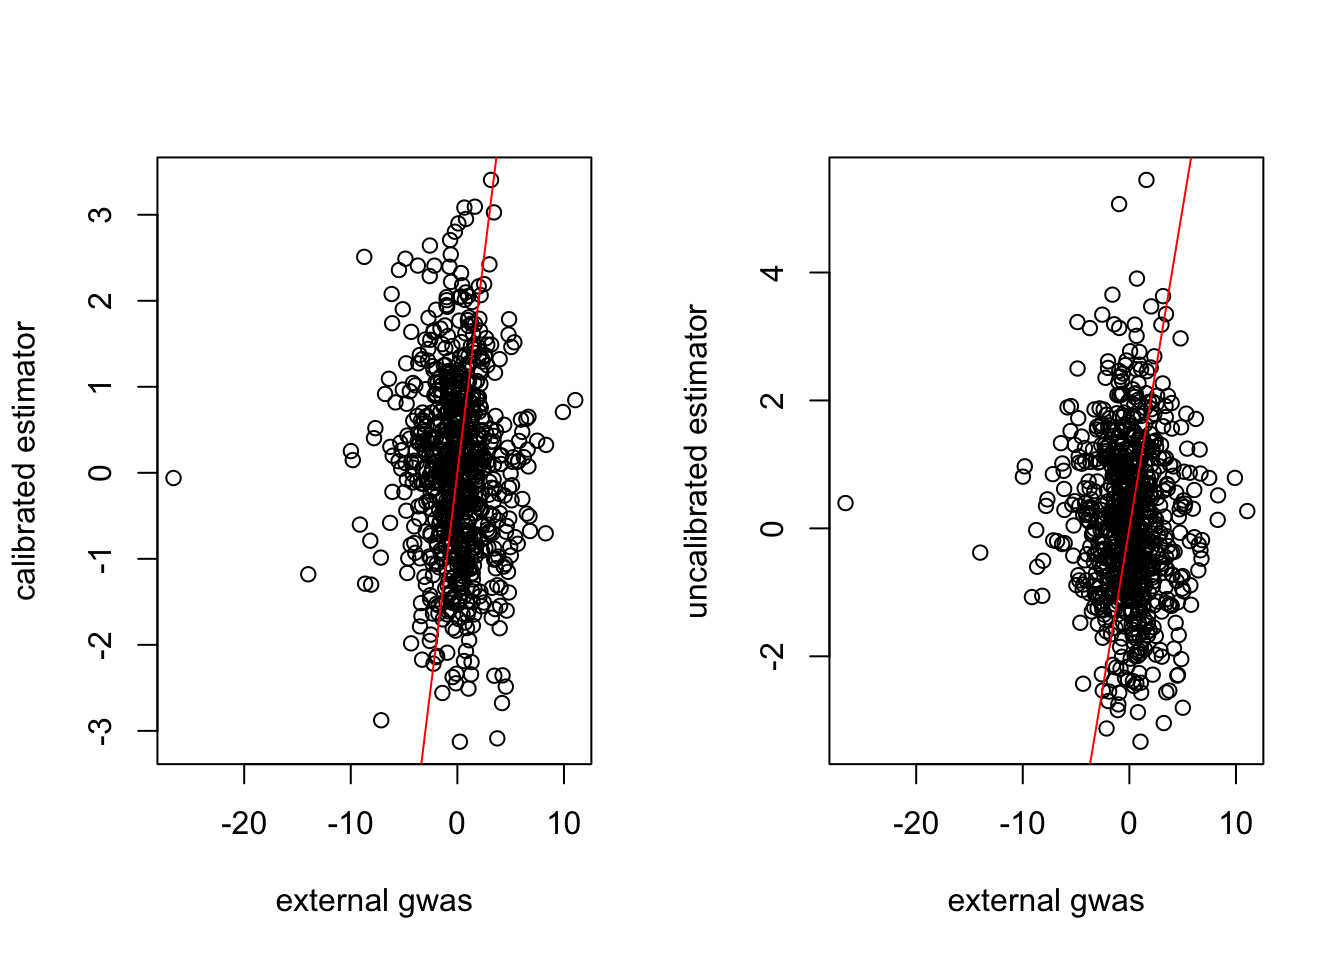
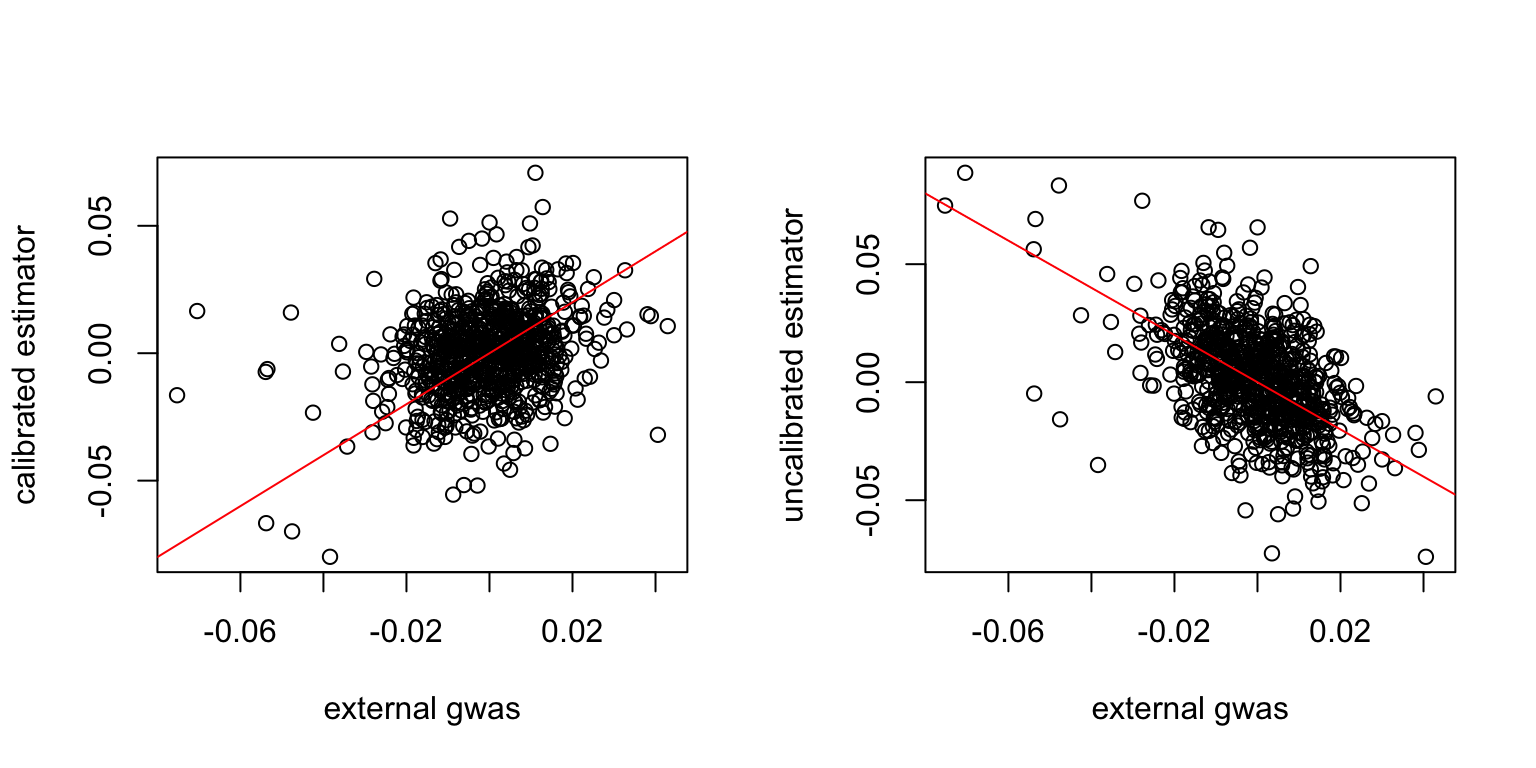
Build site.

diff --git a/docs/ukb_trait_calibration.html b/docs/ukb_trait_calibration.html
@@ -475,16 +475,16 @@ This reproducible <a href="http://rmarkdown.rstudio.com">R Markdown</a> analysis
 <div class="panel panel-default">
 <div class="panel-heading">
 <p class="panel-title">
-<a data-toggle="collapse" data-parent="#workflowr-checks" href="#strongRepositoryversionstrongahrefhttpsgithubcomyunqiyang0215simulationcalibratedmrtreea435a22b6d7da3b3b8bcaa146761af53e4e9d98ftargetblanka435a22a"> <span class="glyphicon glyphicon-ok text-success" aria-hidden="true"></span> <strong>Repository version:</strong> <a href="https://github.com/yunqiyang0215/simulation-calibrated-mr/tree/a435a22b6d7da3b3b8bcaa146761af53e4e9d98f" target="_blank">a435a22</a> </a>
+<a data-toggle="collapse" data-parent="#workflowr-checks" href="#strongRepositoryversionstrongahrefhttpsgithubcomyunqiyang0215simulationcalibratedmrtree2922fec9d5f2d7f1f2fc8186e04e18db68171cd0targetblank2922feca"> <span class="glyphicon glyphicon-ok text-success" aria-hidden="true"></span> <strong>Repository version:</strong> <a href="https://github.com/yunqiyang0215/simulation-calibrated-mr/tree/2922fec9d5f2d7f1f2fc8186e04e18db68171cd0" target="_blank">2922fec</a> </a>
 </p>
 </div>
[2 lines of base64/hex data omitted]
 <div class="panel-body">
 <p>
 Great! You are using Git for version control. Tracking code development and connecting the code version to the results is critical for reproducibility.
 </p>
 <p>
-The results in this page were generated with repository version <a href="https://github.com/yunqiyang0215/simulation-calibrated-mr/tree/a435a22b6d7da3b3b8bcaa146761af53e4e9d98f" target="_blank">a435a22</a>. See the <em>Past versions</em> tab to see a history of the changes made to the R Markdown and HTML files.
+The results in this page were generated with repository version <a href="https://github.com/yunqiyang0215/simulation-calibrated-mr/tree/2922fec9d5f2d7f1f2fc8186e04e18db68171cd0" target="_blank">2922fec</a>. See the <em>Past versions</em> tab to see a history of the changes made to the R Markdown and HTML files.
 </p>
 <p>
 Note that you need to be careful to ensure that all relevant files for the analysis have been committed to Git prior to generating the results (you can use <code>wflow_publish</code> or <code>wflow_git_commit</code>). workflowr only checks the R Markdown file, but you know if there are other scripts or data files that it depends on. Below is the status of the Git repository when the results were generated:
@@ -537,6 +537,40 @@ Message
 </tr>
 </thead>
 <tbody>
+<tr>
+<td>
+Rmd
+</td>
+<td>
+<a href="https://github.com/yunqiyang0215/simulation-calibrated-mr/blob/2922fec9d5f2d7f1f2fc8186e04e18db68171cd0/analysis/ukb_trait_calibration.Rmd" target="_blank">2922fec</a>
+</td>
+<td>
+yunqiyang0215
+</td>
+<td>
+2024-05-08
+</td>
+<td>
+wflow_publish("analysis/ukb_trait_calibration.Rmd")
+</td>
+</tr>
+<tr>
+<td>
+html
+</td>
+<td>
+<a href="https://rawcdn.githack.com/yunqiyang0215/simulation-calibrated-mr/896d41a23954c59a93184be152333c9de35660be/docs/ukb_trait_calibration.html" target="_blank">896d41a</a>
+</td>
+<td>
+yunqiyang0215
+</td>
+<td>
+2024-05-08
+</td>
+<td>
+Build site.
+</td>
+</tr>
 <tr>
 <td>
 Rmd
@@ -631,62 +665,33 @@ wflow_publish("analysis/ukb_trait_calibration.Rmd")
 </div>
 <div id="bmi" class="section level3">
 <h3>1. BMI</h3>
-<pre class="r"><code>sumstat = readRDS(&quot;/Users/nicholeyang/Downloads/calibrated_estimator/real-data-analysis/calibration_bmi.rds&quot;)
+<pre class="r"><code>sumstat = readRDS(&quot;/Users/nicholeyang/Downloads/calibrated_estimator/real-data-analysis/sib_result/sib_calibration_bmi.rds&quot;)
 ext = read.csv(&quot;/Users/nicholeyang/Downloads/calibrated_estimator/real-data-analysis/combined_bmi.linear&quot;, sep = &quot;\t&quot;)</code></pre>
-<pre class="r"><code>ext2 = ext[1:784, ]</code></pre>
+<pre class="r"><code>sumstat = data.frame(sumstat)
+sumstat$ID = rownames(sumstat)
+dat = merge(sumstat, ext, by.x = &quot;ID&quot;, by.y = &quot;ID&quot;, all = FALSE)</code></pre>
+<pre class="r"><code>head(dat)</code></pre>
+<pre><code>          ID          cali     cali.var          raw      raw.var X.CHROM
+1 rs10004698  0.0002856091 0.0001751302 -0.003960951 0.0002060997       4
+2 rs10009336  0.0081149064 0.0002789649 -0.015738750 0.0003286186       4
+3  rs1000940 -0.0121745655 0.0001718697  0.012413332 0.0002038394      17
+4  rs1003081 -0.0025580026 0.0001438800  0.015351719 0.0001695287      11
+5 rs10036136 -0.0051647561 0.0001511676 -0.006109080 0.0001816326       5
+6 rs10050688  0.0142942677 0.0001638802  0.009708311 0.0001941920       5
+        POS REF ALT A1 TEST OBS_CT        BETA         SE    T_STAT           P
+1 188961336   A   G  G  ADD 257429  0.00197690 0.00302184  0.654206 5.12980e-01
+2  44480783   T   C  C  ADD 257429  0.01168170 0.00377308  3.096060 1.96131e-03
+3   5283252   G   A  A  ADD 257429 -0.01851870 0.00302595 -6.119940 9.37432e-10
+4 118913993   T   C  C  ADD 257429 -0.01212200 0.00279283 -4.340420 1.42268e-05
+5  32869686   A   G  G  ADD 257429 -0.00457835 0.00282191 -1.622430 1.04712e-01
+6 116657963   A   G  G  ADD 257429  0.00613477 0.00297863  2.059590 3.94385e-02</code></pre>
 <pre class="r"><code># check estimate scale
-par(mfrow = c(1,3))
-plot(ext2$BETA[1:784], sumstat[, &quot;cali&quot;], xlab = &quot;external gwas&quot;, ylab = &quot;calibrated estimator&quot;)
-abline(a = 0, b = 1, col = &quot;red&quot;)
-plot(ext2$BETA[1:784], sumstat[, &quot;raw&quot;], xlab = &quot;external gwas&quot;, ylab = &quot;uncalibrated estimator&quot;)
-abline(a = 0, b = 1, col = &quot;red&quot;)
-plot(sumstat[, &quot;cali&quot;], sumstat[, &quot;raw&quot;], xlab = &quot;calibrated estimator&quot;, ylab = &quot;uncalibrated estimator&quot;)
-abline(a = 0, b = 1, col = &quot;red&quot;)</code></pre>
-<p><img src="figure/ukb_trait_calibration.Rmd/unnamed-chunk-3-1.png" width="768" style="display: block; margin: auto;" /></p>
-<p>
-<button type="button" class="btn btn-default btn-xs btn-workflowr btn-workflowr-fig" data-toggle="collapse" data-target="#fig-unnamed-chunk-3-1">
-Past versions of unnamed-chunk-3-1.png
-</button>
-</p>
-<div id="fig-unnamed-chunk-3-1" class="collapse">
-<div class="table-responsive">
-<table class="table table-condensed table-hover">
-<thead>
-<tr>
-<th>
-Version
-</th>
-<th>
-Author
-</th>
-<th>
-Date
-</th>
-</tr>
-</thead>
-<tbody>
-<tr>
-<td>
-<a href="https://github.com/yunqiyang0215/simulation-calibrated-mr/blob/5c909f4dccfdf9f985368d833aefdd077ed9d1a6/docs/figure/ukb_trait_calibration.Rmd/unnamed-chunk-3-1.png" target="_blank">5c909f4</a>
-</td>
-<td>
-yunqiyang0215
-</td>
-<td>
-2024-05-08
-</td>
-</tr>
-</tbody>
-</table>
-</div>
-</div>
-<pre class="r"><code># check Zscore
 par(mfrow = c(1,2))
-plot(ext2$BETA[1:784]/ext2$SE, sumstat[, &quot;cali&quot;]/sqrt(sumstat[, &quot;cali.var&quot;]), xlab = &quot;external gwas&quot;, ylab = &quot;calibrated estimator&quot;)
+plot(dat$BETA, dat$cali, xlab = &quot;external gwas&quot;, ylab = &quot;calibrated estimator&quot;)
 abline(a = 0, b = 1, col = &quot;red&quot;)
-plot(ext2$BETA[1:784]/ext2$SE, sumstat[, &quot;raw&quot;]/sqrt(sumstat[, &quot;raw.var&quot;]), xlab = &quot;external gwas&quot;, ylab = &quot;uncalibrated estimator&quot;)
-abline(a = 0, b = 1, col = &quot;red&quot;)</code></pre>
-<p><img src="figure/ukb_trait_calibration.Rmd/unnamed-chunk-4-1.png" width="672" style="display: block; margin: auto;" /></p>
+plot(dat$BETA, dat$raw, xlab = &quot;external gwas&quot;, ylab = &quot;uncalibrated estimator&quot;)
+abline(a = 0, b = -1, col = &quot;red&quot;)</code></pre>
+<p><img src="figure/ukb_trait_calibration.Rmd/unnamed-chunk-4-1.png" width="768" style="display: block; margin: auto;" /></p>
 <p>
 <button type="button" class="btn btn-default btn-xs btn-workflowr btn-workflowr-fig" data-toggle="collapse" data-target="#fig-unnamed-chunk-4-1">
 Past versions of unnamed-chunk-4-1.png
@@ -724,11 +729,12 @@ yunqiyang0215
 </table>
 </div>
 </div>
-<pre class="r"><code>pval.ext = pnorm(abs(ext2$BETA/ext2$SE), lower.tail = FALSE)
-pval.cali = pnorm(abs(sumstat[, &quot;cali&quot;]/sqrt(sumstat[, &quot;cali.var&quot;])), lower.tail = FALSE)
-pval.uncali = pnorm(abs(sumstat[, &quot;raw&quot;]/sqrt(sumstat[, &quot;raw.var&quot;])), lower.tail = FALSE)</code></pre>
-<pre class="r"><code>sum(pval.ext &lt; 1e-8)</code></pre>
-<pre><code>[1] 42</code></pre>
+<pre class="r"><code>pval.ext = pnorm(abs(dat$BETA/dat$SE), lower.tail = FALSE)
+pval.cali = pnorm(abs(dat$cali/sqrt(dat$cali.var)), lower.tail = FALSE)
+pval.uncali = pnorm(abs(dat$raw/sqrt(dat$raw.var)), lower.tail = FALSE)
+
+sum(pval.ext &lt; 1e-8)</code></pre>
+<pre><code>[1] 78</code></pre>
 <pre class="r"><code>sum(pval.cali &lt; 1e-3)</code></pre>
 <pre><code>[1] 3</code></pre>
 <pre class="r"><code>sum(pval.uncali &lt; 1e-3)</code></pre>
@@ -737,16 +743,16 @@ pval.uncali = pnorm(abs(sumstat[, &quot;raw&quot;]/sqrt(sumstat[, &quot;raw.var&
 <h4>Calibration result</h4>
 <pre class="r"><code>par(mfrow = c(1, 3))
 sumstat = data.frame(sumstat)
-boxplot(sumstat[sumstat$cali.var &lt; 0.0005, c(&quot;cali.var&quot;, &quot;raw.var&quot;)], ylab = &quot;variance&quot;)
-boxplot(sumstat[sumstat$cali.var &gt; 0.0005, c(&quot;cali.var&quot;, &quot;raw.var&quot;)], ylab = &quot;variance&quot;)
-hist((sumstat[, &quot;raw.var&quot;] - sumstat[, &quot;cali.var&quot;])/sumstat[, &quot;raw.var&quot;], main = &quot;variance reduction&quot;, xlab = &quot;&quot;)</code></pre>
-<p><img src="figure/ukb_trait_calibration.Rmd/unnamed-chunk-7-1.png" width="768" style="display: block; margin: auto;" /></p>
+boxplot(dat[dat$cali.var &lt; 0.0005, c(&quot;cali.var&quot;, &quot;raw.var&quot;)], ylab = &quot;variance&quot;)
+boxplot(dat[dat$cali.var &gt; 0.0005, c(&quot;cali.var&quot;, &quot;raw.var&quot;)], ylab = &quot;variance&quot;)
+hist((dat$raw.var - dat$cali.var)/dat$raw.var, main = &quot;variance reduction&quot;, xlab = &quot;&quot;)</code></pre>
+<p><img src="figure/ukb_trait_calibration.Rmd/unnamed-chunk-6-1.png" width="768" style="display: block; margin: auto;" /></p>
 <p>
-<button type="button" class="btn btn-default btn-xs btn-workflowr btn-workflowr-fig" data-toggle="collapse" data-target="#fig-unnamed-chunk-7-1">
-Past versions of unnamed-chunk-7-1.png
+<button type="button" class="btn btn-default btn-xs btn-workflowr btn-workflowr-fig" data-toggle="collapse" data-target="#fig-unnamed-chunk-6-1">
+Past versions of unnamed-chunk-6-1.png
 </button>
 </p>
-<div id="fig-unnamed-chunk-7-1" class="collapse">
+<div id="fig-unnamed-chunk-6-1" class="collapse">
 <div class="table-responsive">
 <table class="table table-condensed table-hover">
 <thead>
@@ -765,7 +771,18 @@ Date
 <tbody>
 <tr>
 <td>
-<a href="https://github.com/yunqiyang0215/simulation-calibrated-mr/blob/ebc2aa69d20d86ef0f8fcb5b60826c60040afa6d/docs/figure/ukb_trait_calibration.Rmd/unnamed-chunk-7-1.png" target="_blank">ebc2aa6</a>
+<a href="https://github.com/yunqiyang0215/simulation-calibrated-mr/blob/ebc2aa69d20d86ef0f8fcb5b60826c60040afa6d/docs/figure/ukb_trait_calibration.Rmd/unnamed-chunk-6-1.png" target="_blank">ebc2aa6</a>
+</td>
+<td>
+yunqiyang0215
+</td>
+<td>
+2024-05-08
+</td>
+</tr>
+<tr>
+<td>
+<a href="https://github.com/yunqiyang0215/simulation-calibrated-mr/blob/5c909f4dccfdf9f985368d833aefdd077ed9d1a6/docs/figure/ukb_trait_calibration.Rmd/unnamed-chunk-6-1.png" target="_blank">5c909f4</a>
 </td>
 <td>
 yunqiyang0215
